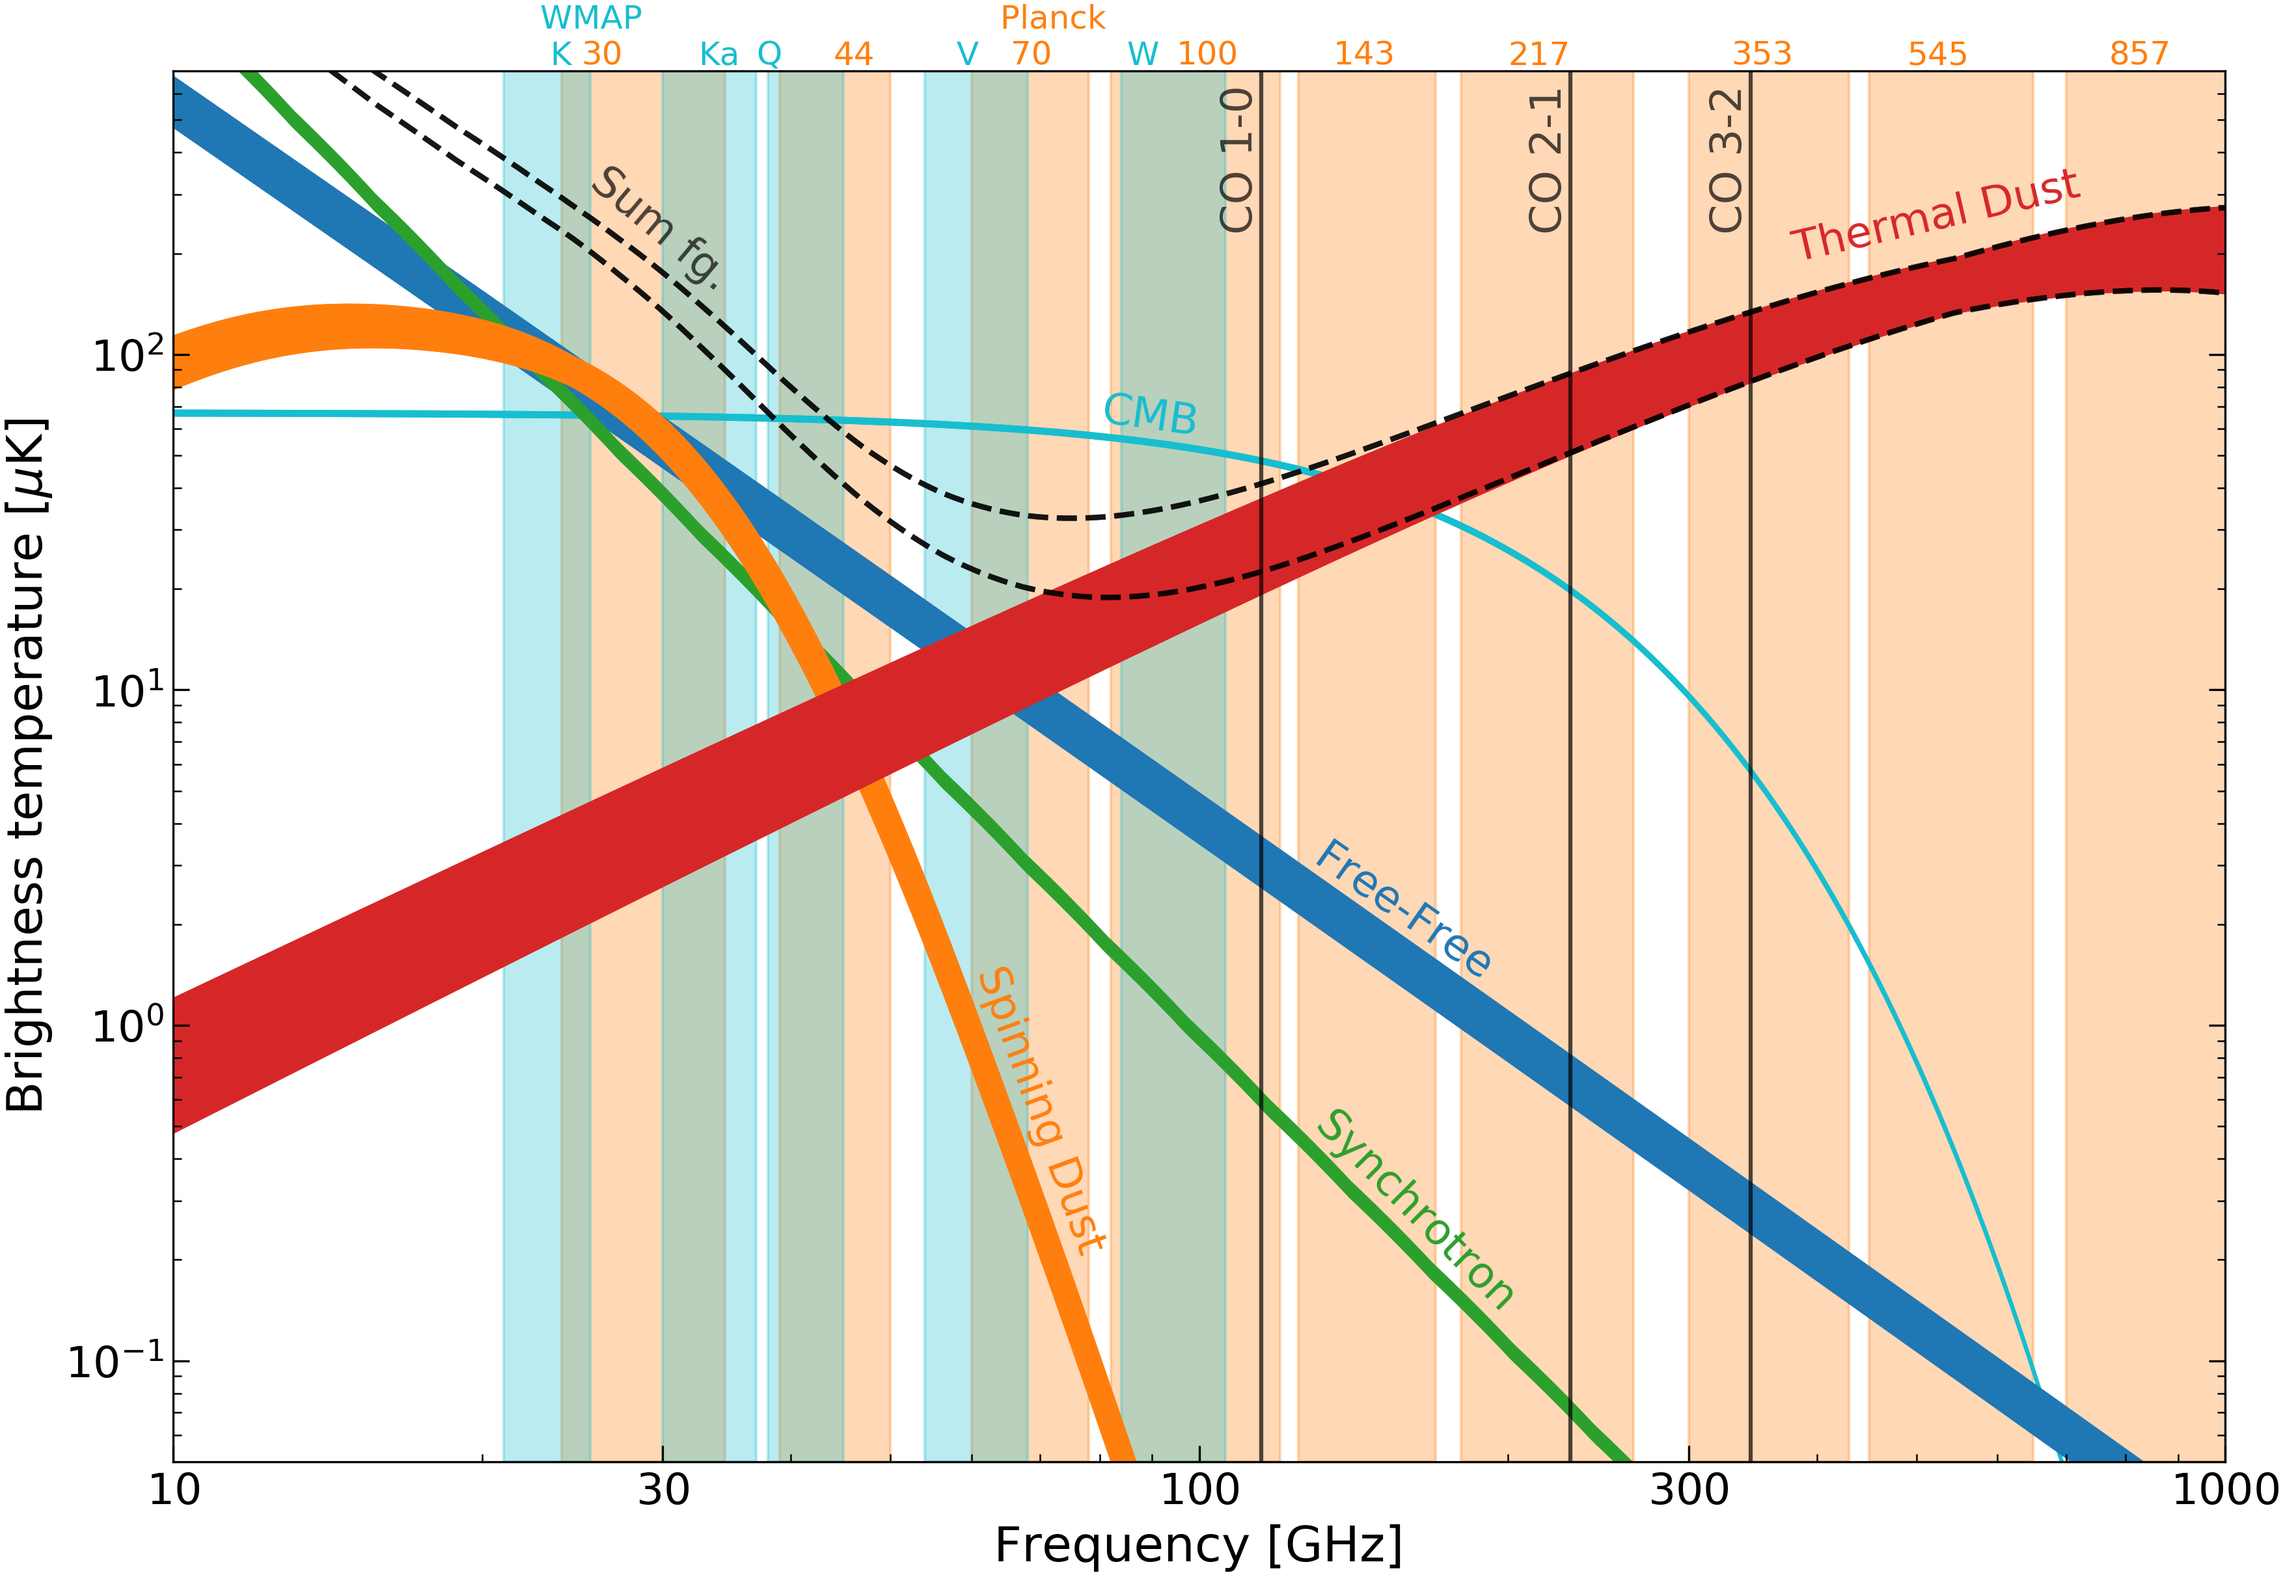
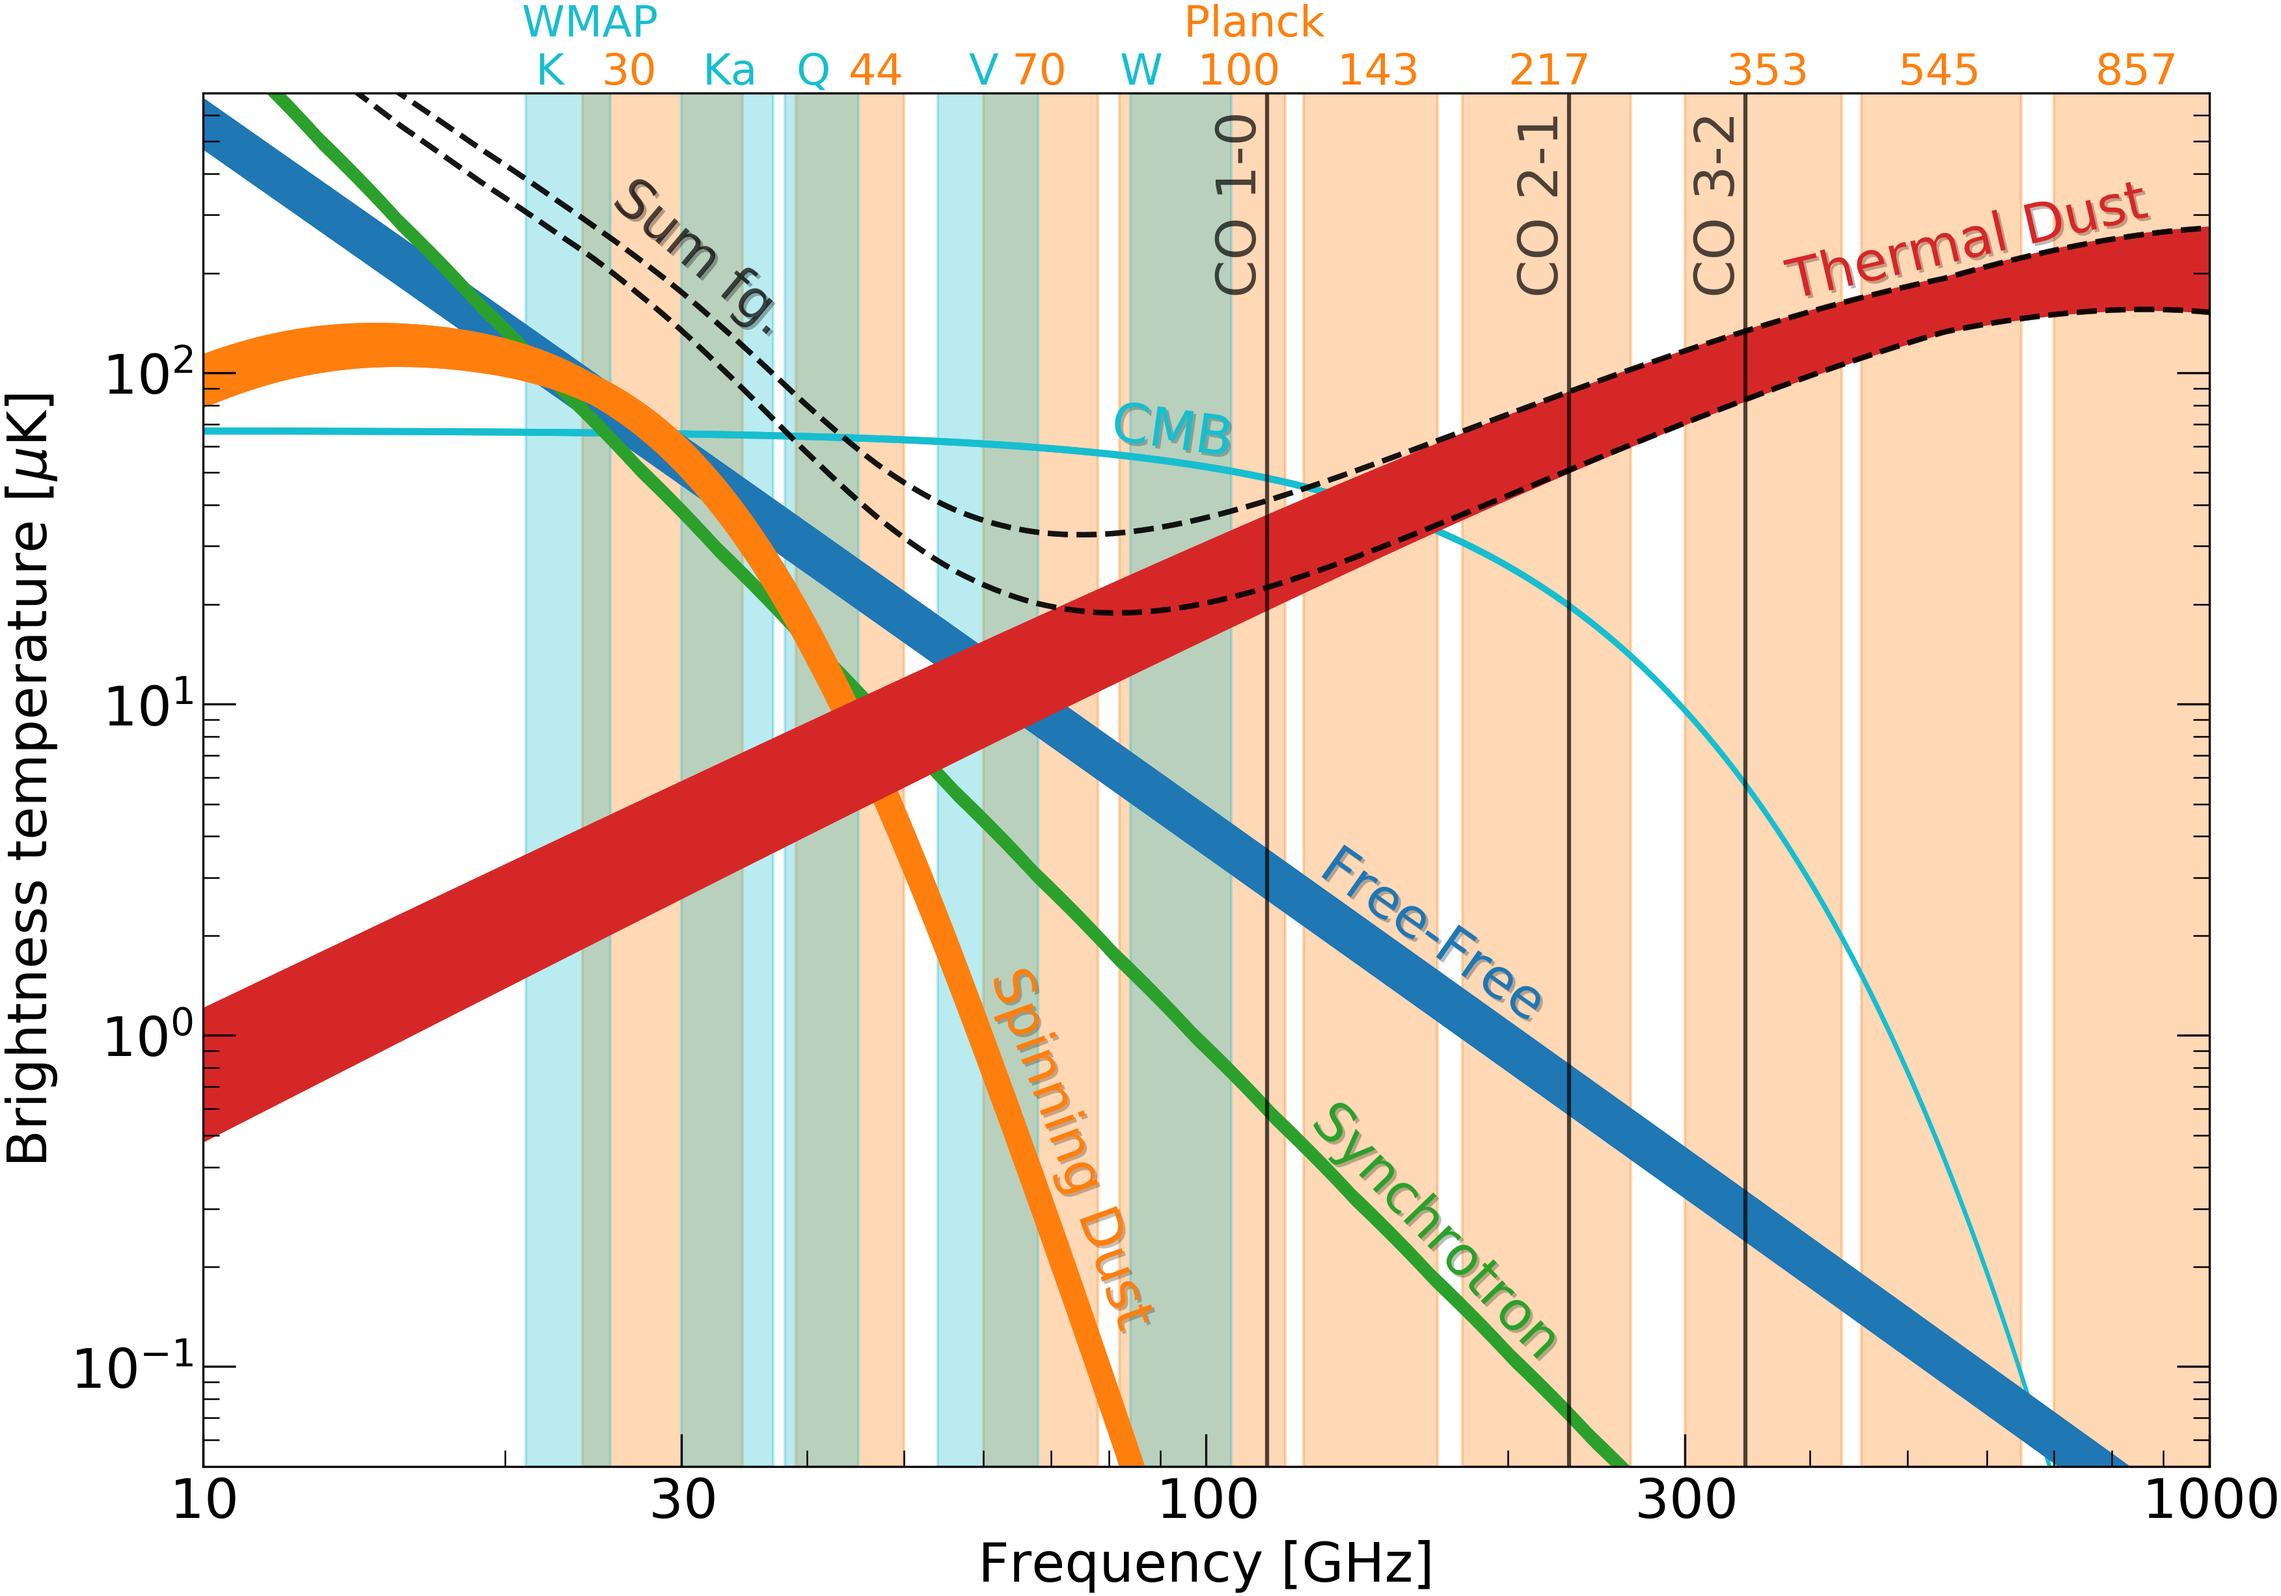
added shadow to text

diff --git a/spectrum.py b/spectrum.py
@@ -1,4 +1,5 @@
 from matplotlib import rcParams, rc
+import matplotlib.patheffects as path_effects
 import matplotlib.ticker as ticker
 import matplotlib.pyplot as plt
 import numpy as np
@@ -8,10 +9,6 @@ from brokenaxes import brokenaxes
 #plt.style.use(u"trygveplot_astro")
 
 params = {'savefig.dpi'        : 300, # save figures to 300 dpi
-          'ytick.major.size'   : 6,
-          'ytick.minor.size'   : 3,
-          'xtick.major.size'   : 6,
-          'xtick.minor.size'   : 3,
           'xtick.top'          : False,
           'ytick.right'        : True, #Set to false
           'axes.spines.top'    : True, #Set to false
@@ -19,7 +16,16 @@ params = {'savefig.dpi'        : 300, # save figures to 300 dpi
           'axes.spines.left'   : True,
           'axes.spines.right'  : True, #Set to false
           'axes.grid.axis'     : 'y',
-          'axes.grid'          : False
+          'axes.grid'          : False,
+          'ytick.major.size'   : 12,
+          'ytick.minor.size'   : 6,
+          'xtick.major.size'   : 12,
+          'xtick.minor.size'   : 6,
+          
+          #'ytick.major.size'   : 6,
+          #'ytick.minor.size'   : 3,
+          #'xtick.major.size'   : 6,
+          #'xtick.minor.size'   : 3,
           }
 
 rcParams.update(params)
@@ -88,8 +94,8 @@ def lf(nu,Alf,betalf):
 
 # ---- Calculating spectra ----
 pol = False
-long = True
-lowfreq = True
+long = False
+lowfreq = False
 
 N = 1000
 nu    = np.logspace(np.log10(0.1),np.log10(5000),N) #Text scaled to 0.2, 5000
@@ -199,9 +205,9 @@ else:
     ax2 = ax
 
 freqtext = 16
-fgtext = 16
-labelsize = 18
-ticksize = 16
+fgtext = 20
+labelsize = 20
+ticksize = 20
 
 
 if pol:
@@ -237,8 +243,8 @@ else:
         idx=[17, 50, 50, -10, 160, -90]
         scale=[5,0,0,0,200,300]
     else:  
-        rot=[-8, -35, -45, -70, 13, -40] 
-        idx=[17, 60, 60, -10, 160, -90]
+        rot=[-8, -35, -46, -70, 13, -40] 
+        idx=[17, 60, 58, -10, 160, -90]
         scale=[5,0,0,0,150,300]
 
     if lowfreq:
@@ -275,7 +281,7 @@ for i in range(len(fgs)):
 
     #ax.loglog(nu,fgs[i], linewidth=4,color=col[i])
     #ax2.loglog(nu,fgs[i], linewidth=4,color=col[i])
-    ax.text(nu[idx[i]], fgs[i][1,idx[i]]+scale[i], label[i], rotation=rot[i], color=col[i],fontsize=fgtext)
+    ax.text(nu[idx[i]], fgs[i][1,idx[i]]+scale[i], label[i], rotation=rot[i], color=col[i],fontsize=fgtext,  path_effects=[path_effects.withSimplePatchShadow(offset=(1, -1))])
 
     ax.set_xscale("log")
     ax.set_yscale("log")
@@ -283,7 +289,7 @@ for i in range(len(fgs)):
     ax2.set_yscale("log")
 
 # ---- Plotting sum of all foregrounds ----        
-ax.text(nu[idx[-1]], fgs[-1][1,idx[-1]]+scale[-1], label[-1], rotation=rot[-1], color='k', fontsize=fgtext, alpha=0.7)
+ax.text(nu[idx[-1]], fgs[-1][1,idx[-1]]+scale[-1], label[-1], rotation=rot[-1], color='k', fontsize=fgtext, alpha=0.7,  path_effects=[path_effects.withSimplePatchShadow(offset=(1, -1))])
 
 
 def find_nearest(array, value):
@@ -387,8 +393,8 @@ if quijote:
 if planck:
     ax2.text(27-2,ymax2-0.2,"30",  color='C1', va='bottom',alpha=1, size = freqtext)
     ax2.text(42+2,ymax2-0.2,"44",  color='C1', va='bottom',alpha=1, size = freqtext)
-    ax2.text(64,  ymax2-0.2,"Planck \n 70",  color='C1', va='bottom',alpha=1, size = freqtext)
-    ax2.text(90+5,ymax2-0.2,"100", color='C1', va='bottom',alpha=1, size = freqtext)
+    ax2.text(64,  ymax2-0.2,"70",  color='C1', va='bottom',alpha=1, size = freqtext)
+    ax2.text(90+5,ymax2-0.2,"Planck \n 100", color='C1', va='bottom',alpha=1, size = freqtext)
     ax2.text(135, ymax2-0.2,"143", color='C1', va='bottom',alpha=1, size = freqtext)
     ax2.text(200, ymax2-0.2,"217", color='C1', va='bottom',alpha=1, size = freqtext)
     ax2.text(330, ymax2-0.2,"353", color='C1', va='bottom',alpha=1, size = freqtext)
@@ -481,6 +487,7 @@ plt.tight_layout(h_pad=0.3)
 filename ="figs/spectrum"
 filename += "_pol" if pol else ""
 filename += "_long" if long else ""
+filename += "_lowfreq" if lowfreq else ""
 plt.savefig(filename+".png", bbox_inches='tight',  pad_inches=0.02)
 #plt.show()
 
